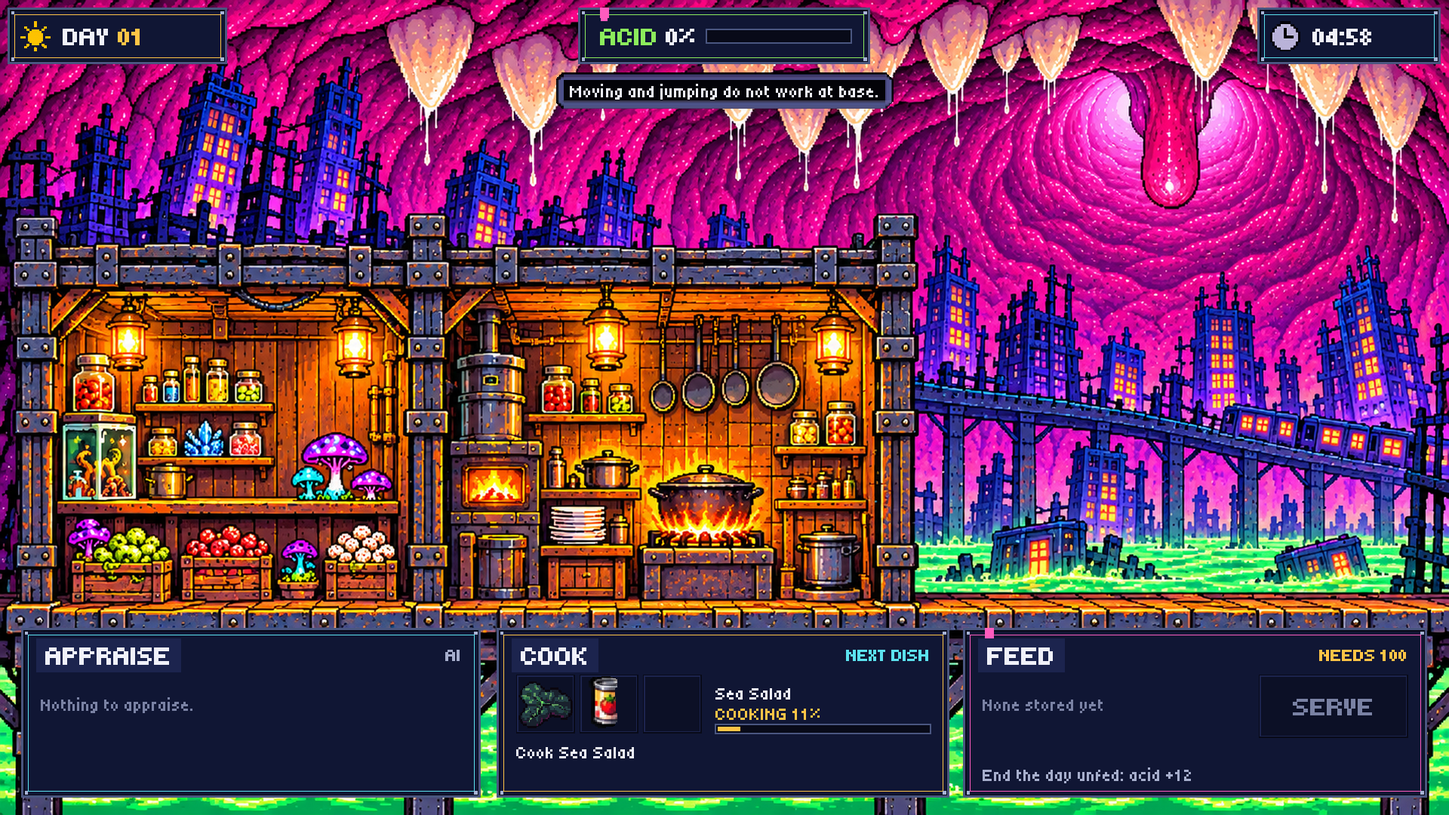
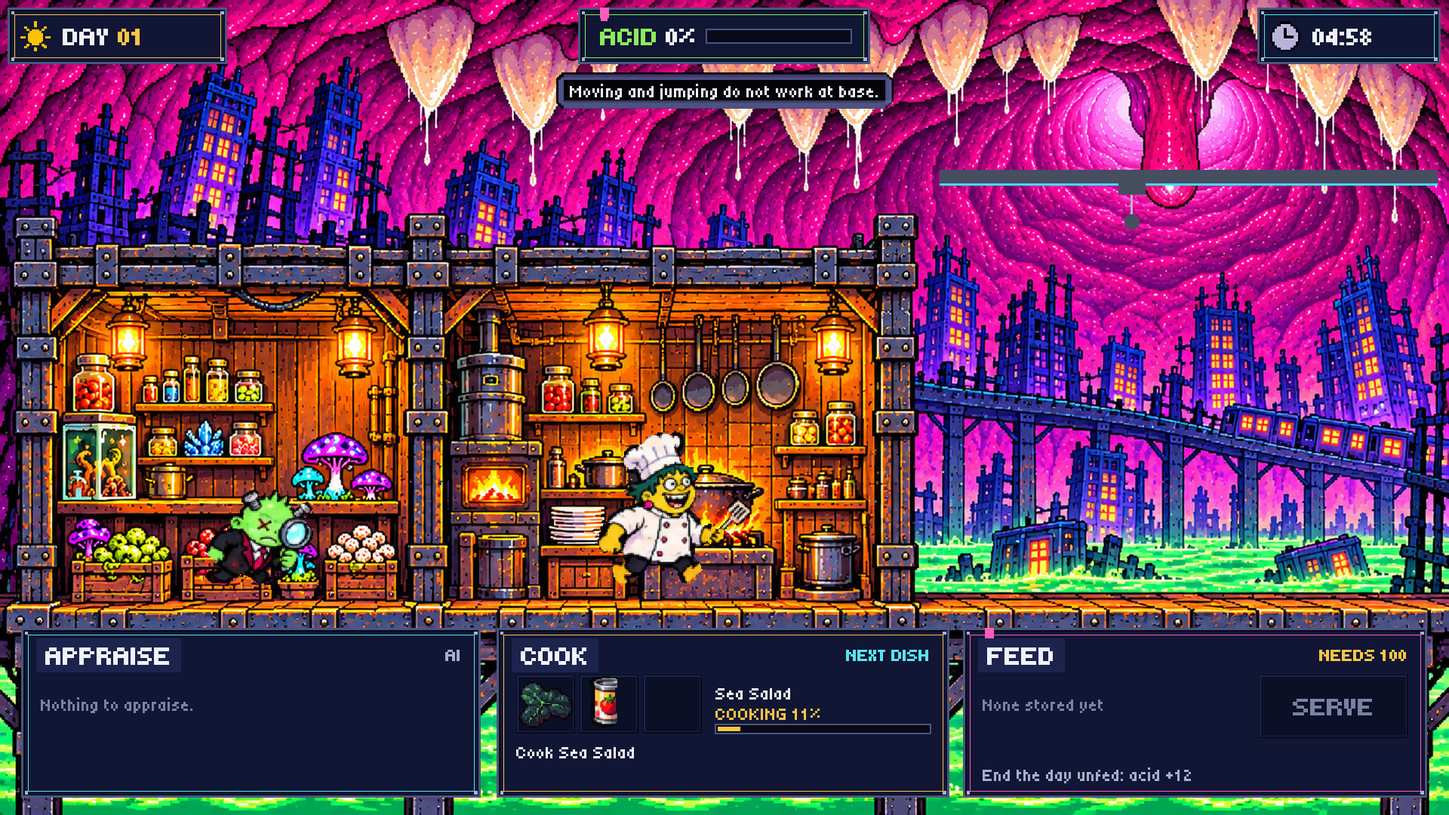
feat: draw the chef, the appraiser and the feed crane over the base kitchen
The base redraw dropped the two workers and had no feed crane. paint_workshop
stands both on the kitchen floor again and draws a code-drawn crane in kit
colours over the monster's mouth, hanging the stored dish and lowering it while
the reaction to a fed dish plays. A screen check reads the drawn figures and the
crane, and the lowering. The long-run seed moves from 44 to 50 because the
merged actor entry change plays the seeded run differently and seed 44 no longer
meets a hated dish; seeds 45 to 49 do not either. The screen-lock and survival
pass lines follow the new totals.

Changed region(s): [[0.625, 0.1833, 1.0, 0.2444], [0.4062, 0.5194, 0.5312, 0.7333], [0.125, 0.5806, 0.2188, 0.7333]]

diff --git a/src/rendering/survival.cpp b/src/rendering/survival.cpp
@@ -58,18 +58,24 @@ constexpr float OUTLINE = 1.0F;
 constexpr Vector2 THROAT_AT(333.0F, 0.0F);
 constexpr Vector2 CITY_AT(-224.0F, -10.0F);
 constexpr float BAND_LEFT = -384.0F;
-/// The part of the kitchen picture the workshop shows between the top bar and
-/// the panels, with the kitchen floor along its bottom.
-constexpr float KITCHEN_SOURCE_Y = 364.0F;
-constexpr float KITCHEN_Y = 62.0F;
-constexpr float KITCHEN_HEIGHT = 256.0F;
-constexpr float KITCHEN_FLOOR = 310.0F;
-constexpr float WORKSHOP_SCALE = 2.0F;
+/// The base's floor row, the workers' height standing on it and their left
+/// edges, in layout units over the kitchen picture.
+constexpr float BASE_FLOOR = 528.0F;
+constexpr float FIGURE_HEIGHT = 150.0F;
+constexpr float APPRAISER_X = 150.0F;
+constexpr float CHEF_X = 520.0F;
+/// The feed crane: its beam, where its trolley hangs, and the hook's highest
+/// and lowest rows over the monster's mouth.
+constexpr float CRANE_LEFT = 830.0F;
+constexpr float CRANE_WIDTH = 440.0F;
+constexpr float CRANE_BEAM = 150.0F;
+constexpr float CRANE_X = 1000.0F;
+constexpr float CRANE_REST = 190.0F;
+constexpr float CRANE_LOW = 330.0F;
 /// The chef and appraiser frames' foot pivot (128, 204 picture pixels in the
 /// character manifests), in layout units.
 constexpr Vector2 ACTOR_PIVOT(128.0F / (2.0F * ART_SCALE),
                               204.0F / (2.0F * ART_SCALE));
-constexpr Vector2 FEED_BUCKET(1205.0F, 202.0F);
 constexpr float DASH = 4.0F;
 /// Clears the head of a character that rises a cell above its own.
 constexpr float TAG_RISE = 38.0F;
@@ -1733,9 +1739,44 @@ void paint_city_labels(godot::Node2D &canvas, const Art &art,
   canvas.set_meta("map_heading", transform(shot.heading));
 }
 
-void paint_workshop(godot::Node2D &canvas, const Art &art) {
+void paint_workshop(godot::Node2D &canvas, const Art &art, bool dish_ready,
+                    float lowering) {
   canvas.set_meta("character_layers", godot::Array());
   art.image(canvas, Image::BaseKitchen, Vector2(0.0F, 0.0F), 1.0F);
+  // The two workers stand on the kitchen's floor, the appraiser in the left
+  // room and the chef at the stove.
+  const float scale = FIGURE_HEIGHT / art.size(Image::ChefIdle).y;
+  const Vector2 figure = art.size(Image::ChefIdle) * scale;
+  const float figure_top = BASE_FLOOR - ACTOR_PIVOT.y * scale;
+  art.image(canvas, Image::AppraiserIdle, Vector2(APPRAISER_X, figure_top),
+            scale);
+  art.image(canvas, Image::ChefIdle, Vector2(CHEF_X, figure_top), scale);
+  // The feed crane over the monster's mouth: a beam with a trolley, a cable
+  // and a hook, with the stored dish hung from it, lowered into the mouth
+  // as the dish is fed.
+  const float hook =
+      CRANE_REST + std::clamp(lowering, 0.0F, 1.0F) * (CRANE_LOW - CRANE_REST);
+  const auto steel = color(70, 78, 96, 1.0F);
+  canvas.draw_rect(rect(CRANE_LEFT, CRANE_BEAM, CRANE_WIDTH, 12.0F), steel);
+  canvas.draw_rect(rect(CRANE_LEFT, CRANE_BEAM + 12.0F, CRANE_WIDTH, 2.0F),
+                   color(66, 222, 255, 1.0F));
+  canvas.draw_rect(rect(CRANE_X - 12.0F, CRANE_BEAM + 12.0F, 24.0F, 10.0F),
+                   steel);
+  canvas.draw_line(Vector2(CRANE_X, CRANE_BEAM + 22.0F), Vector2(CRANE_X, hook),
+                   color(176, 186, 204, 1.0F), 2.0F);
+  canvas.draw_circle(Vector2(CRANE_X, hook + 6.0F), 7.0F, steel);
+  if (dish_ready || lowering > 0.0F) {
+    canvas.draw_circle(Vector2(CRANE_X, hook + 26.0F), 18.0F,
+                       color(255, 196, 72, 1.0F));
+    canvas.draw_circle(Vector2(CRANE_X, hook + 26.0F), 11.0F,
+                       color(255, 142, 72, 1.0F));
+  }
+  godot::Array figures;
+  figures.push_back(rect(APPRAISER_X, figure_top, figure.x, figure.y));
+  figures.push_back(rect(CHEF_X, figure_top, figure.x, figure.y));
+  canvas.set_meta("workshop_figures", figures);
+  canvas.set_meta("feed_crane", rect(CRANE_LEFT, CRANE_BEAM, CRANE_WIDTH,
+                                     hook + 44.0F - CRANE_BEAM));
 }
 
 } // namespace neocity::rendering

diff --git a/src/hud/survival.cpp b/src/hud/survival.cpp
@@ -1577,9 +1577,26 @@ void paint_day_result(godot::Node2D &canvas, const rendering::Art &drawing,
   }
 }
 
+/// How far the feed crane has lowered its dish: 0 at rest, 1 at the monster's
+/// mouth, rising and falling over the reaction to a dish that was fed.
+float crane_lowering(const std::vector<rendering::Burst> &bursts) {
+  float lowering = 0.0F;
+  for (const auto &burst : bursts) {
+    if (burst.kind != rendering::Flourish::Delight &&
+        burst.kind != rendering::Flourish::Disgust) {
+      continue;
+    }
+    const float done = burst.age / rendering::lifetime(burst.kind);
+    lowering = std::max(lowering, 1.0F - std::abs(2.0F * done - 1.0F));
+  }
+  return lowering;
+}
+
 void paint_workshop_screen(godot::Node2D &canvas, const rendering::Art &drawing,
-                           const SurvivalFrame &frame) {
-  rendering::paint_workshop(canvas, drawing);
+                           const SurvivalFrame &frame,
+                           const std::vector<rendering::Burst> &bursts) {
+  rendering::paint_workshop(canvas, drawing, !frame.view.workshop.foods.empty(),
+                            crane_lowering(bursts));
   paint_day_result(canvas, drawing, frame);
   paint_appraise(canvas, drawing, frame);
   paint_cook(canvas, drawing, frame);
@@ -2050,7 +2067,7 @@ void paint_survival(godot::Node2D &canvas, const rendering::Art &drawing,
     paint_prompts(canvas, drawing, frame);
     paint_goal(canvas, drawing, {}, hand_off_notice(frame));
   } else {
-    paint_workshop_screen(canvas, drawing, frame);
+    paint_workshop_screen(canvas, drawing, frame, bursts);
     rendering::paint_workshop_bursts(canvas, drawing, bursts);
     // The task card names the step at base; the notice line says what the
     // keys cannot do there.

diff --git a/src/rendering/survival.hpp b/src/rendering/survival.hpp
@@ -91,8 +91,11 @@ void paint_city_labels(godot::Node2D &canvas, const Art &art,
                        const survival::GameView &view,
                        survival::ControlMap control, const Shot &shot,
                        std::span<const godot::Rect2> covered);
-/// Draws the base: the kitchen art over the whole screen, with the chef, the
-/// appraiser and the feed crane in it.
-void paint_workshop(godot::Node2D &canvas, const Art &art);
+/// Draws the base: the kitchen art over the whole screen, the chef and the
+/// appraiser standing on its floor, and the feed crane over the monster's
+/// mouth, with its dish lowered by `lowering` from 0 (rest) to 1 (fed).
+/// `dish_ready` hangs the stored dish on the crane.
+void paint_workshop(godot::Node2D &canvas, const Art &art, bool dish_ready,
+                    float lowering);
 
 } // namespace neocity::rendering

diff --git a/docs/architecture/presentation.md b/docs/architecture/presentation.md
@@ -28,7 +28,7 @@ How the GDExtension presents the title screen and the survival game through inpu
   | `danger` | `#FF6868` | A hated dish |
   | `success` | `#8CEB5C` | The acid |
 - `src/hud/pointer.cpp` holds what a click acts on, `hud::Target`, and lights the target under the mouse, writing a refusing target's reason over it. It leaves the targets on the main canvas as the `pointer_targets` meta for the Godot checks, and the pause screen and the leave question leave the button they drew as the `interruption_button` meta, so a check can click where a button is drawn. Each screen's painting and its targets in `src/hud/` share one source for every area, the rise of a panel coming into place included.
-- `src/hud/` paints the interface with the rendering primitives, the interface font, the HD art set's plates, sun, clock and prompt, and the art set's ingredient and dish icons, which `rendering::item_icon` finds, for the HUD and the map alike, by the display names the `survival` library gives. Corner numbers and titles are Bold and every other word is Regular; no word is smaller than 16px, two screen pixels to each of the face's, and every word sits on an opaque panel, button, slot or plate. `src/hud/menus.cpp` draws the title screen, the key art and the logo with a panel per entry and the accent highlight sliding to the cursor's entry, the controls page, and the How to play page, which lists the tips' lines from `hud::tip_text` and shares the controls page's panel and way back. The controls page's rows are the pause screen's rows for two players followed by the pause and leave keys, built by the same function from the same key table, so the two cannot name different keys. `src/hud/survival.cpp` draws the choice of players, a kit panel per choice from `src/hud/title.hpp` over the title art with the same sliding highlight, and the survival HUD. Its `shot_of` asks the camera what to show, in the city, with the sources out of reach and each human's NEXT goal to point at, and the city, its light and its words are drawn from that shot. The survival HUD reads one `SurvivalFrame` of snapshots. [ADR 0034](adr/0034-show-exploration-as-the-mockup-top-bar-and-one-action-prompt.md) decides what exploration shows: three plates in the top band, one action prompt for each human who has an action, and the transfer screen while one is open. Under [ADR 0036](adr/0036-draw-the-exploration-ui-and-the-base-in-the-kit-style.md) the plates are kit panels drawn in code by `rendering::kit_panel`, 48 pixels tall: dark navy with a steel rim, a neon line inset from it, rivets in the corners and an optional magenta drip. They hold the day with the `ui/sun.png` at the left, its number two digits in the accent; the acid as a percentage of the rules' full value with a `rendering::kit_bar` gauge that fills with it, in the middle; and the time left, minutes and seconds of two digits, with the `ui/clock.png` at the right. At base while the base has a clock the time shown is the base's own, `remaining_base`, and otherwise the day's exploration time. A prompt stands at the bottom right on a kit panel widened to its words: the key it names as a gold cap, then the action: the search key with SEARCH and the container's name, or CLOSE while the transfer screen is open, and, when the search key has nothing to do and the actor is in the city, the travel key with TO BASE; with two humans a player tag leads it and the chef's stands above player two's. It is hidden while a search holds the actor, and a click on it presses the key it names, as ADR 0013 decides. The cap names a key, which amends ADR 0014's removal of key caps; the movement keys and every other key are listed on the pause screen and the controls page and not on the exploration screen. The NEXT line, the log's notes, the actor blocks, the key line, the INVENTORY button and the pause chip are not drawn in exploration, while `survival_status` still reports the NEXT line, the log and each human's action. At base the same plates stand over the kitchen, with one line under the acid saying that moving and jumping do not work there, and the prompts name what each human's keys do: SEARCH Fridge, or CLOSE while the transfer screen is open, COOK for the chef and APPRAISE for the appraiser; a hand-off notice, when due, stands under the acid in both. The HUD leaves the area of every panel, plate and prompt it drew, the tip left out, as the `hud_panels` meta, so `project/e2e/survival.gd` measures what the HUD covers, that exploration draws only the three plates and the prompts, and that no word of the map lies under it. The first-play tips open at base only. The open tip is one line in Regular after a Bold gold TIP on a panel, its words naming the action and not its key; it stands at the first place, tried in rows at the left, the middle and the right, that covers no HUD panel or click target, and it is left out while no place is free. The HUD leaves it as the `hud_tip` meta, its `rect` and `text`, which the session empties each frame and the pause screen or the leave question marks as `held` under its veil. The Move and Collect tips never open and stay on the controls page. `action_labels` gives what each human's prompt reads, empty while it is hidden, which session reports with each object's screen name, so `project/e2e/survival.gd` can read it. Under ADR 0036 the base is the art `art_hd/base/kitchen.png` over the whole screen, with the chef, the appraiser and the feed crane drawn into it, and a deck of three kit panels along the bottom. APPRAISE shows the ingredients not yet identified in slots, the one the appraiser's key would appraise ringed, and who works there. COOK shows the ingredient slots, as many as the snapshot's `ingredient_slots` and at least three, holding the dish on offer's ingredients, or, while a cook runs, the `cooking` slots, with the dish's name, `COOKING` and a percentage over a `kit_bar` that fills with `progress_of(cooking)`; otherwise how many recipes can be cooked now, and below the slots the NEXT step, split over two lines when long, the next dish when the chef can choose. FEED shows the stored dishes with their scores, which count up as they appear, gold once they pass, under the score the monster needs, a SERVE button that feeds, and ending the day with its acid. A refused cook while one runs says that a dish is still cooking, and not that the fridge is full. The last day's result shows above the deck, as a kit panel; it reads snapshots and so holds no clock and waits for no key. A click on the cook panel's step, the SERVE button, the NEXT DISH words, the end-day line, the chef or the first appraise slot presses the key each stands for. The pause screen holds every key of the current number of players, the recipe book, each recipe with what it still needs or that it is ready, the monster's mark and its taste, the ingredients eaten so far and what feeding does, when the escape checks begin, and the effects and music volumes, each ten blocks and a percentage, the one the left and right keys change marked in the accent. The workshop's deck rises into place as the workshop opens, and the pause and leave screens fade their veil in and rise. The acid gauge eases to each new value. `changing_text` lists each line that changes with play, with the width its place allows, the recipe book's needs in every form a pack could give them, the words of each prompt, the base line and the hand-off notice, and the lines of the base's deck, so `project/e2e/survival.gd` can measure them in the face. `session` leaves on the main canvas the lines `Art` wrote for it in a frame as the `screen_text` meta, so the checks read what the screen drew. Under a cinematic it paints the dark stage, or the placeholder card when no scene can play, with its Skip and Main menu button, as the [cinematic contract](session.md#cinematic-contract) describes.
+- `src/hud/` paints the interface with the rendering primitives, the interface font, the HD art set's plates, sun, clock and prompt, and the art set's ingredient and dish icons, which `rendering::item_icon` finds, for the HUD and the map alike, by the display names the `survival` library gives. Corner numbers and titles are Bold and every other word is Regular; no word is smaller than 16px, two screen pixels to each of the face's, and every word sits on an opaque panel, button, slot or plate. `src/hud/menus.cpp` draws the title screen, the key art and the logo with a panel per entry and the accent highlight sliding to the cursor's entry, the controls page, and the How to play page, which lists the tips' lines from `hud::tip_text` and shares the controls page's panel and way back. The controls page's rows are the pause screen's rows for two players followed by the pause and leave keys, built by the same function from the same key table, so the two cannot name different keys. `src/hud/survival.cpp` draws the choice of players, a kit panel per choice from `src/hud/title.hpp` over the title art with the same sliding highlight, and the survival HUD. Its `shot_of` asks the camera what to show, in the city, with the sources out of reach and each human's NEXT goal to point at, and the city, its light and its words are drawn from that shot. The survival HUD reads one `SurvivalFrame` of snapshots. [ADR 0034](adr/0034-show-exploration-as-the-mockup-top-bar-and-one-action-prompt.md) decides what exploration shows: three plates in the top band, one action prompt for each human who has an action, and the transfer screen while one is open. Under [ADR 0036](adr/0036-draw-the-exploration-ui-and-the-base-in-the-kit-style.md) the plates are kit panels drawn in code by `rendering::kit_panel`, 48 pixels tall: dark navy with a steel rim, a neon line inset from it, rivets in the corners and an optional magenta drip. They hold the day with the `ui/sun.png` at the left, its number two digits in the accent; the acid as a percentage of the rules' full value with a `rendering::kit_bar` gauge that fills with it, in the middle; and the time left, minutes and seconds of two digits, with the `ui/clock.png` at the right. At base while the base has a clock the time shown is the base's own, `remaining_base`, and otherwise the day's exploration time. A prompt stands at the bottom right on a kit panel widened to its words: the key it names as a gold cap, then the action: the search key with SEARCH and the container's name, or CLOSE while the transfer screen is open, and, when the search key has nothing to do and the actor is in the city, the travel key with TO BASE; with two humans a player tag leads it and the chef's stands above player two's. It is hidden while a search holds the actor, and a click on it presses the key it names, as ADR 0013 decides. The cap names a key, which amends ADR 0014's removal of key caps; the movement keys and every other key are listed on the pause screen and the controls page and not on the exploration screen. The NEXT line, the log's notes, the actor blocks, the key line, the INVENTORY button and the pause chip are not drawn in exploration, while `survival_status` still reports the NEXT line, the log and each human's action. At base the same plates stand over the kitchen, with one line under the acid saying that moving and jumping do not work there, and the prompts name what each human's keys do: SEARCH Fridge, or CLOSE while the transfer screen is open, COOK for the chef and APPRAISE for the appraiser; a hand-off notice, when due, stands under the acid in both. The HUD leaves the area of every panel, plate and prompt it drew, the tip left out, as the `hud_panels` meta, so `project/e2e/survival.gd` measures what the HUD covers, that exploration draws only the three plates and the prompts, and that no word of the map lies under it. The first-play tips open at base only. The open tip is one line in Regular after a Bold gold TIP on a panel, its words naming the action and not its key; it stands at the first place, tried in rows at the left, the middle and the right, that covers no HUD panel or click target, and it is left out while no place is free. The HUD leaves it as the `hud_tip` meta, its `rect` and `text`, which the session empties each frame and the pause screen or the leave question marks as `held` under its veil. The Move and Collect tips never open and stay on the controls page. `action_labels` gives what each human's prompt reads, empty while it is hidden, which session reports with each object's screen name, so `project/e2e/survival.gd` can read it. Under ADR 0036 the base is the art `art_hd/base/kitchen.png` over the whole screen, with the chef and the appraiser drawn over it on the kitchen floor from their idle frames and a feed crane drawn in code over the monster's mouth, which hangs the stored dish and lowers it while the reaction to a fed dish plays, and a deck of three kit panels along the bottom. APPRAISE shows the ingredients not yet identified in slots, the one the appraiser's key would appraise ringed, and who works there. COOK shows the ingredient slots, as many as the snapshot's `ingredient_slots` and at least three, holding the dish on offer's ingredients, or, while a cook runs, the `cooking` slots, with the dish's name, `COOKING` and a percentage over a `kit_bar` that fills with `progress_of(cooking)`; otherwise how many recipes can be cooked now, and below the slots the NEXT step, split over two lines when long, the next dish when the chef can choose. FEED shows the stored dishes with their scores, which count up as they appear, gold once they pass, under the score the monster needs, a SERVE button that feeds, and ending the day with its acid. A refused cook while one runs says that a dish is still cooking, and not that the fridge is full. The last day's result shows above the deck, as a kit panel; it reads snapshots and so holds no clock and waits for no key. A click on the cook panel's step, the SERVE button, the NEXT DISH words, the end-day line, the chef or the first appraise slot presses the key each stands for. The pause screen holds every key of the current number of players, the recipe book, each recipe with what it still needs or that it is ready, the monster's mark and its taste, the ingredients eaten so far and what feeding does, when the escape checks begin, and the effects and music volumes, each ten blocks and a percentage, the one the left and right keys change marked in the accent. The workshop's deck rises into place as the workshop opens, and the pause and leave screens fade their veil in and rise. The acid gauge eases to each new value. `changing_text` lists each line that changes with play, with the width its place allows, the recipe book's needs in every form a pack could give them, the words of each prompt, the base line and the hand-off notice, and the lines of the base's deck, so `project/e2e/survival.gd` can measure them in the face. `session` leaves on the main canvas the lines `Art` wrote for it in a frame as the `screen_text` meta, so the checks read what the screen drew. Under a cinematic it paints the dark stage, or the placeholder card when no scene can play, with its Skip and Main menu button, as the [cinematic contract](session.md#cinematic-contract) describes.
 - The screen draws the current map and the camera is bounded by that map's size. Under [ADR 0029](adr/0029-draw-fixed-map-themes-and-interiors-at-their-floors.md), the street retains its HD violet masonry and swallowed-city layers, with new terminal scenery behind its eastern floors; the aquarium has a dedicated teal tank background and grated decks. Occupied kitchen, noodle-shop and cold-store zones show their own interior backgrounds. Object states select collapsed span ends, kiosk rubble and the replacement fire escape. The ferry retains its hull below a deck aligned to its collision floor. The HUD measures the lines of every map's places, not only the current one's, so a place on the other map still fits its button and note, under the one name `survival::place_display_name` gives it on every map. Under [ADR 0031](adr/0031-darken-interiors-and-fade-between-maps-in-the-presentation.md), while an actor stands in one of those zones and none is out in the city beyond every zone, everything outside the zone is veiled in the background colour, eased in and out on `Art`'s clock, and the city records the veil's depth as the `interior_veil` meta on a canvas whose `measure_art` meta is set. A change of map, which the rules make at once under [ADR 0027](adr/0027-fix-the-street-and-aquarium-maps-and-damage-them-by-day.md), starts the `MapFade` flourish of `src/rendering/feedback.cpp`, which fades the screen through black and records the veil it drew as the `screen_veil` meta like the fade between days; `Session` keeps the frame before the change and draws it, through its own camera, until the fade is black, and `project/e2e/screen_lock.gd` checks that the map drawn changes only behind the black.
 - The NEXT line asks `SurvivalRun`'s offers what the human's key would do with the current view, so the offer it names is the command the key runs.
 - Under [ADR 0032](adr/0032-search-containers-into-a-weighted-inventory-and-a-base-fridge.md) there is no bottom bar of bag slots. Each human has a search key (R, and P for player two) that opens a transfer screen drawn over the rest: at a container in the city, its slots beside the actor's own twelve, at base the fridge's thirty beside the actor's, and away from a container the actor's slots alone as the inventory. The screen shows the item icons the slots held, a cursor in gold on one slot, each side's count, the actor's weight against the most it carries, and the slowdown named while over. Left and right move the cursor along a row and up and down switch between the container's side and the actor's own, the interact key moves the item under it across (taking, putting back, storing or withdrawing; with no container in reach in the city it moves nothing), the search key closes the screen, and the action prompt reads SEARCH with the container's name or CLOSE while the screen is open, and TO BASE with no container in reach, where the search key alone opens the inventory. At base the human's prompt SEARCH Fridge opens the same screen by click, reading CLOSE while it is open; the screen takes the interact key, so while it is open the guide line reads "Inventory open: search again to close." with the search key as its press, and the chef and the appraiser refuse a click with "Close the inventory first." A click on a slot moves the cursor to it and presses the interact key, as ADR 0013 has a click press the key the thing stands for. `hud::TransferScreen` holds each human's cursor and open state in the `SurvivalFrame`, `rendering::place_name` names the container by the display name the library gives, and the slots drawn are left as the `transfers` meta on a canvas whose `measure_art` meta is set. The container kinds `Crates`, `Locker`, `Shelf` and `Bag` choose the art of the same pictures as before.

diff --git a/docs/architecture/adr/0036-draw-the-exploration-ui-and-the-base-in-the-kit-style.md b/docs/architecture/adr/0036-draw-the-exploration-ui-and-the-base-in-the-kit-style.md
@@ -13,20 +13,20 @@ Alternatives considered:
 
 - Keep the art plates for the top bar and restyle only the base. Rejected: the plates are fixed-size pictures, and the kit's panels fit their words.
 - Reuse `hud::kit_panel` of the title for every panel. Rejected: it has one accent and no slot or bar; the exploration screens need the cyan, gold, magenta and green edges the concept shows, so `rendering` gets its own primitives and the title's helpers stay for the title and the choice of players.
-- Move the chef and the appraiser into the HUD as sprites. Rejected: the kitchen art draws the people and the crane, so the base's targets for them are areas over the art.
+- Move the chef and the appraiser into the HUD as sprites. Rejected: `rendering::paint_workshop` already draws them with the existing idle frames over the kitchen picture, and the base has click areas over them.
 
 ## Decision
 
-`rendering` draws three kit primitives in code: `kit_panel` with an accent and an optional drip, `kit_slot` ringed in gold when marked, and `kit_bar` for a gauge or a progress. The top plates, the action prompt, the transfer screen's frame and the base's panels use them. The base is `art_hd/base/kitchen.png` over the whole screen and a deck along the bottom: APPRAISE with the unidentified ingredients in slots, COOK with its ingredient slots and a progress bar that fills with the snapshot's cooking progress, and FEED with the stored dishes, a SERVE button and the end-day line. The top clock shows the base's own time at base while the base has a clock. The actor blocks and FRIDGE buttons are gone: the prompts name SEARCH Fridge, COOK and APPRAISE, and the chef and the appraiser are click areas over the art. A cook refused because one is running says so. The choice of players is drawn with the title's kit helpers.
+`rendering` draws three kit primitives in code: `kit_panel` with an accent and an optional drip, `kit_slot` ringed in gold when marked, and `kit_bar` for a gauge or a progress. The top plates, the action prompt, the transfer screen's frame and the base's panels use them. The base is `art_hd/base/kitchen.png` over the whole screen and a deck along the bottom: APPRAISE with the unidentified ingredients in slots, COOK with its ingredient slots and a progress bar that fills with the snapshot's cooking progress, and FEED with the stored dishes, a SERVE button and the end-day line. The top clock shows the base's own time at base while the base has a clock. The actor blocks and FRIDGE buttons are gone: the prompts name SEARCH Fridge, COOK and APPRAISE, and the chef and the appraiser are click areas over the figures `paint_workshop` draws on the kitchen floor. The feed crane is drawn in code over the monster's mouth, holding the stored dish, and lowers it while the reaction to a fed dish plays. A cook refused because one is running says so. The choice of players is drawn with the title's kit helpers.
 
 ## Consequences
 
 Easier: one set of primitives gives every panel the same edge, and a new panel is a rectangle and an accent; the base's checks read the same targets as before, moved onto panels.
 
-Harder: the chef's and the appraiser's click areas stand where the art draws them, so a new kitchen picture moves them by hand; two kit helper sets, the title's and `rendering`'s, exist until a later change joins them.
+Harder: the chef's and the appraiser's click areas stand where `paint_workshop` draws them, so a moved figure moves its area by hand; two kit helper sets, the title's and `rendering`'s, exist until a later change joins them.
 
 Ruled out: art plates for the top bar.
 
 ## Signs the decision was wrong
 
-A kitchen picture changes and the click areas no longer stand on the chef or the appraiser. The two helper sets drift apart so that the title and the base no longer look like one kit. The deck's panels cover what the kitchen art shows.
+A figure moves and the click areas no longer stand on the chef or the appraiser. The two helper sets drift apart so that the title and the base no longer look like one kit. The deck's panels cover what the kitchen art shows.
